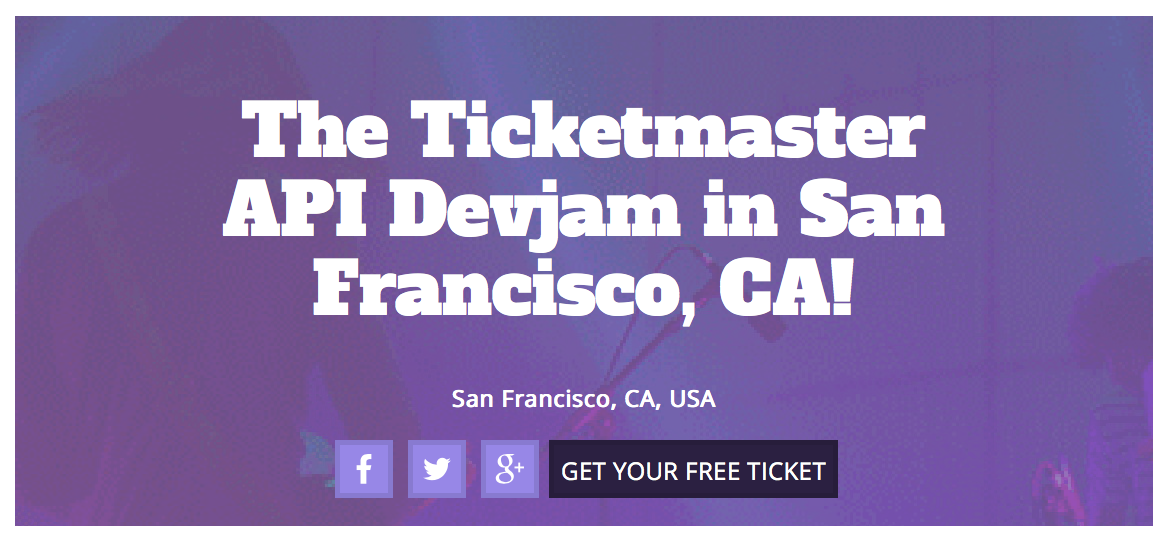
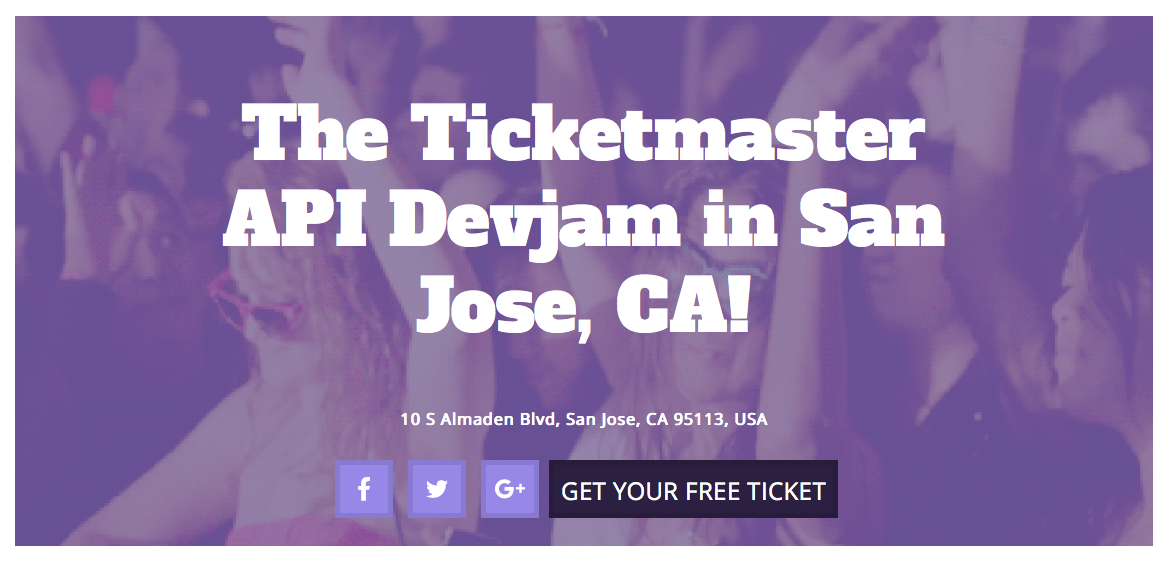
updating listings for the devjams

diff --git a/events/list/007-event.md b/events/list/007-event.md
@@ -1,7 +1,9 @@
 ---
 
+prime: true
+
 category: event
-title: "The Ticketmaster API Devjam in San Francisco, CA!"
+title: "The Ticketmaster API Devjam in San Jose, CA!"
 
 date_title: "Saturday, August 27, 2016 @ 9am"
 date_start: "2016-08-27 17:30:00"
@@ -10,10 +12,10 @@ date_end: "2016-08-27 23:59:00"
 img: "/assets/img/events/devjam7.png"
 
 place: 
-  - "TicketWeb"
-  - "https://www.google.com/maps/place/685+Market+St+%23200,+San+Francisco,+CA+94103/@37.7876553,-122.4033073,19z/data=!3m1!4b1!4m2!3m1!1s0x8085808814a1b309:0xaa9564ec35d3ec53"
+  - "The Apigee HQ"
+  - "https://www.google.com/maps/place/Apigee+Corporation/@37.3338758,-121.8964377,17z/data=!3m1!4b1!4m5!3m4!1s0x808fbaeffae285dd:0x8d689395340b6812!8m2!3d37.3338716!4d-121.894249"
 
-city: "San Francisco, CA"
+city: "San Jose, CA"
 
 rsvp: "https://www.universe.com/events/the-ticketmaster-api-devjam-in-san-francisco-ca-tickets-san-francisco-N35CPS"
 link: "https://www.universe.com/tmdevjam-sf"

diff --git a/events/list/009-event.md b/events/list/009-event.md
@@ -3,14 +3,14 @@
 category: event
 title: "The Ticketmaster API Devjam in Chantilly, VA!"
 
-date_title: "Saturday, September 24, 2016 @ 9am"
-date_start: "2016-09-24 17:30:00"
-date_end: "2016-09-24 23:59:00"
+date_title: "Saturday, October 1, 2016 @ 9am"
+date_start: "2016-09-30 17:30:00"
+date_end: "2016-10-01 23:59:00"
 
 img: "/assets/img/events/devjam9.png"
 
 place: 
-  - "TBD"
+  - "Ticketmaster Office"
   - ""
 
 city: "Chantilly, VA"

diff --git a/events/list/006-event.md b/events/list/006-event.md
@@ -1,7 +1,5 @@
 ---
 
-prime: true
-
 category: event
 title: "The Ticketmaster API Devjam in Hollywood, CA!"
 
